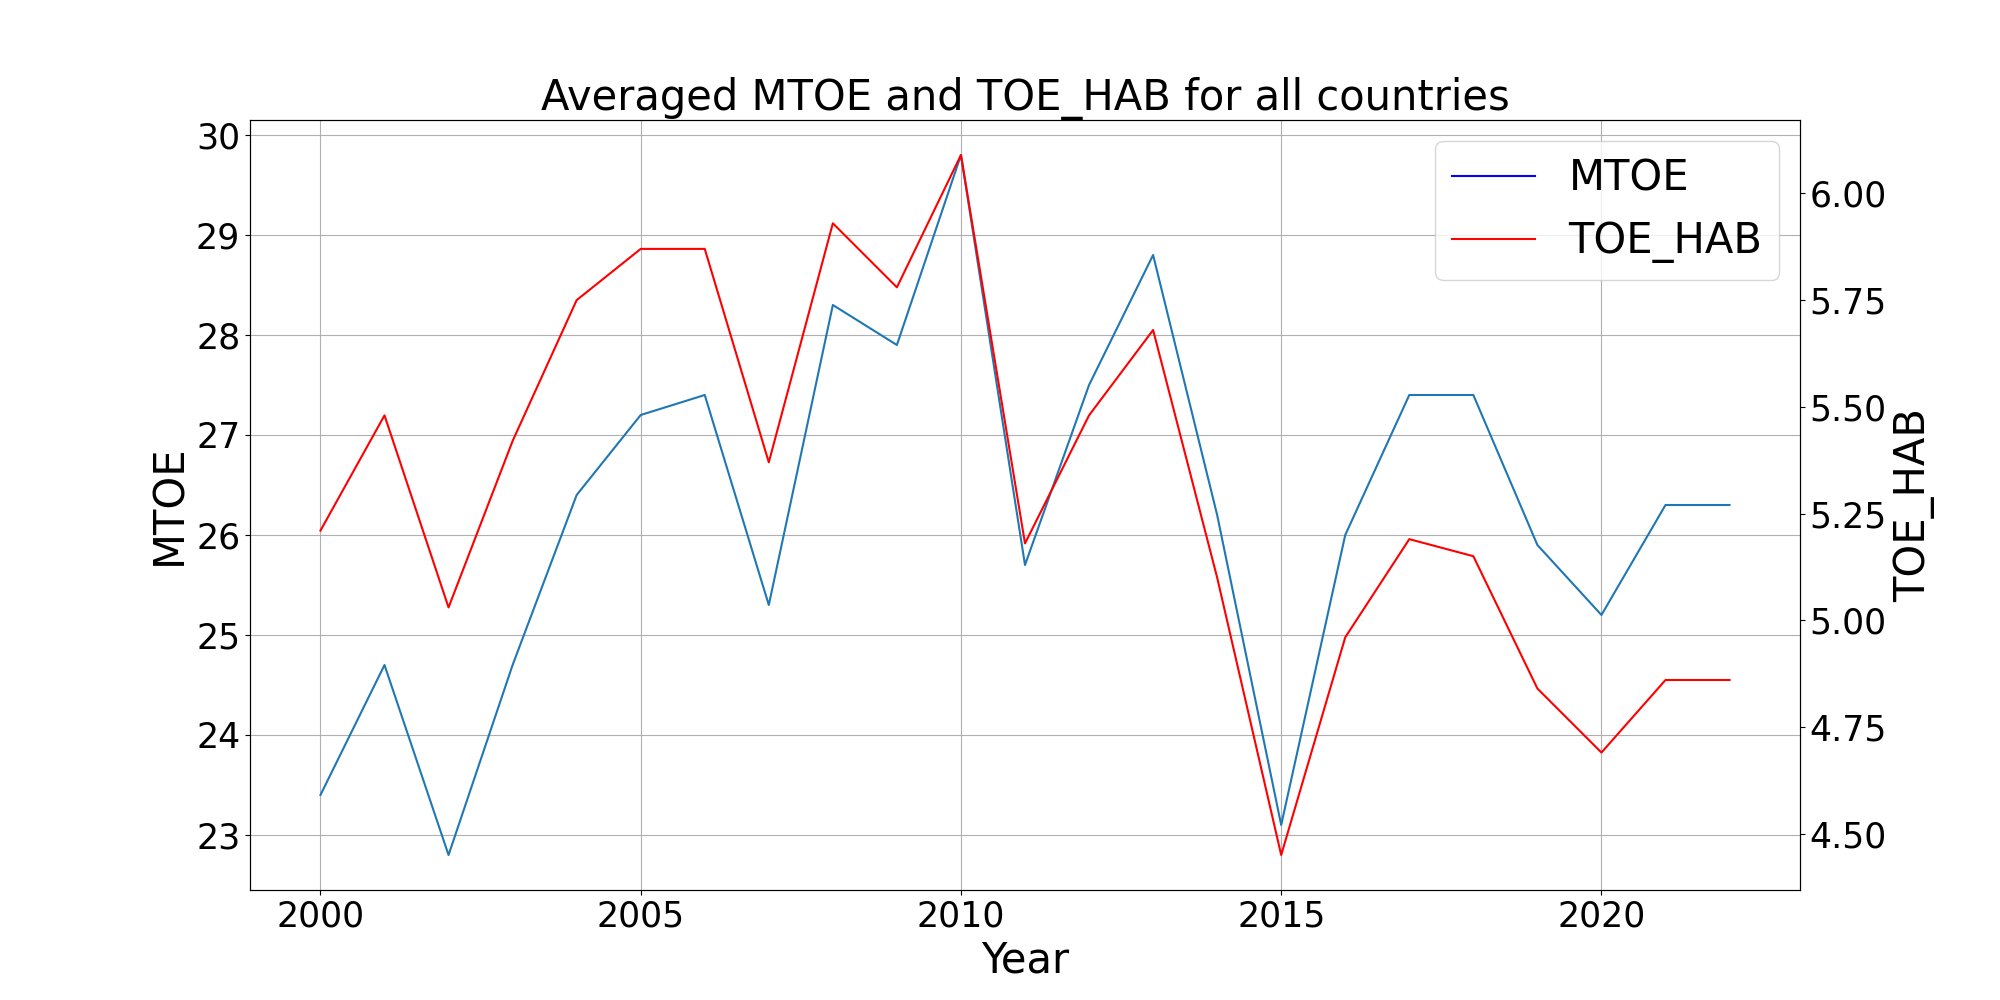
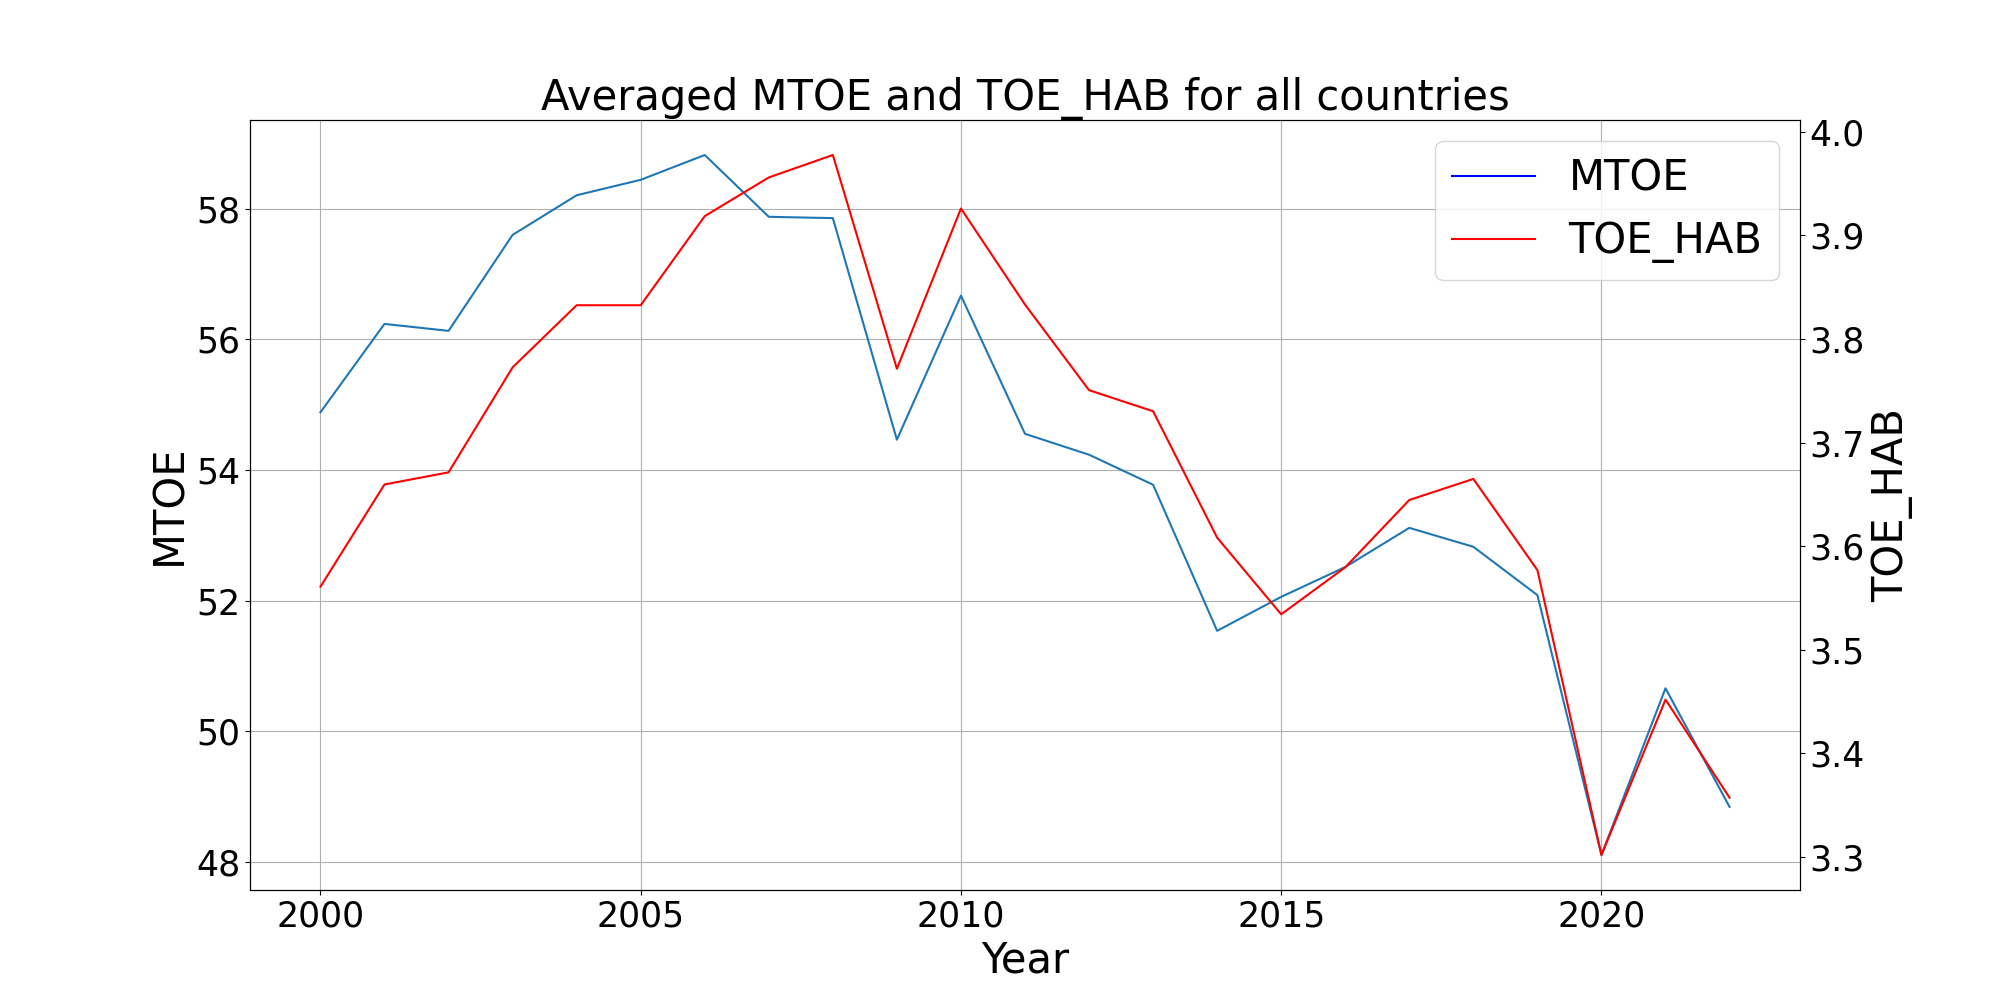
Minor fixes to twinx lineplot and increased the scale size of the correlation plot

diff --git a/project/analysis.py b/project/analysis.py
@@ -263,6 +263,9 @@ class Analysis:
         plt.xticks(fontsize=label_fontsize)
         plt.yticks(fontsize=label_fontsize)
 
+        cbar = plt.gcf().axes[1]
+        cbar.tick_params(labelsize=label_fontsize)
+
         save_path = os.path.join(self.PLOT_ROOT_DIR, f"{method}_correlation_plot.png")
         plt.savefig(save_path)
         plt.show()
@@ -350,7 +353,7 @@ class Analysis:
                 europe_avg_1 = self.europe.drop_duplicates("TIME_PERIOD").merge(
                     average_data_1, on="TIME_PERIOD", suffixes=("", "_avg"))
 
-                sns.lineplot(data=europe_avg_1, x="TIME_PERIOD", y=column_1, ax=ax1)
+                sns.lineplot(data=europe_avg_1, x="TIME_PERIOD", y=column_1+"_avg", ax=ax1)
                 ax1.set_ylabel(column_1, fontsize=label_fontsize)
                 ax1.set_xlabel("Year", fontsize=label_fontsize)
                 ax1.grid(True)
@@ -360,7 +363,7 @@ class Analysis:
                 europe_avg_2 = self.europe.drop_duplicates("TIME_PERIOD").merge(
                     average_data_2, on="TIME_PERIOD", suffixes=("", "_avg"))
 
-                sns.lineplot(data=europe_avg_2, x="TIME_PERIOD", y=column_2, ax=ax2, color="red")
+                sns.lineplot(data=europe_avg_2, x="TIME_PERIOD", y=column_2+"_avg", ax=ax2, color="red")
                 ax2.set_ylabel(column_2, fontsize=label_fontsize)
 
                 plt.title(f"Averaged {column_1} and {column_2} for all countries", fontsize=title_fontsize)
@@ -423,7 +426,7 @@ if __name__ == "__main__":
         label_fontsize=20,
         annot_fontsize=20,
         method="spearman")
-
+    
     analysis.twinx_lineplot(
         "MTOE", 
         "TOE_HAB", 
@@ -442,4 +445,4 @@ if __name__ == "__main__":
         tick_fontsize=25,
         s=70
         )
-
+'''
